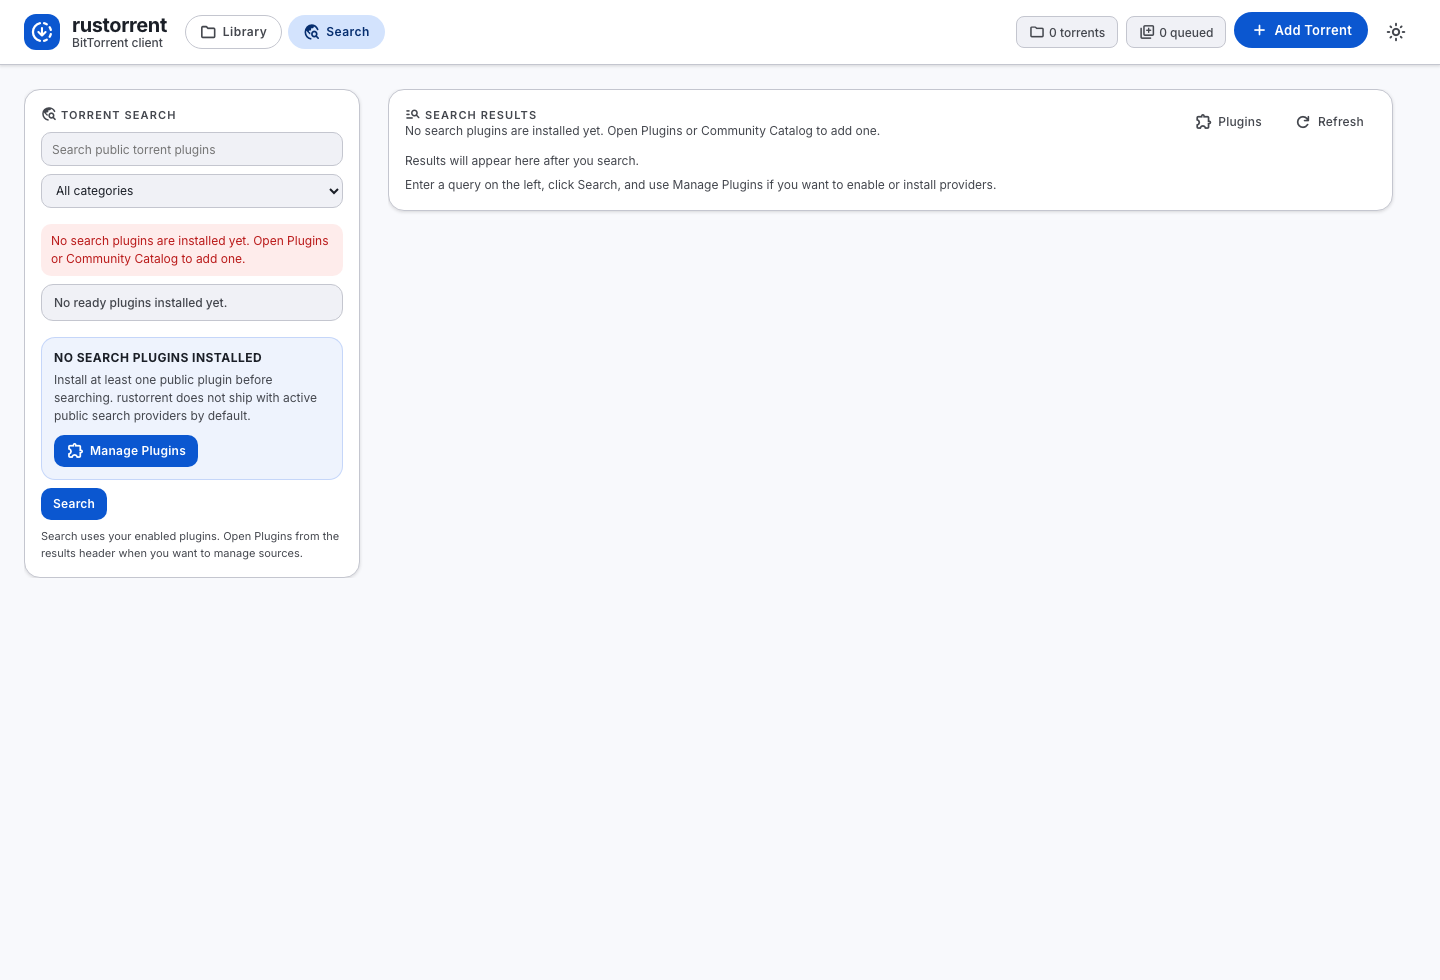
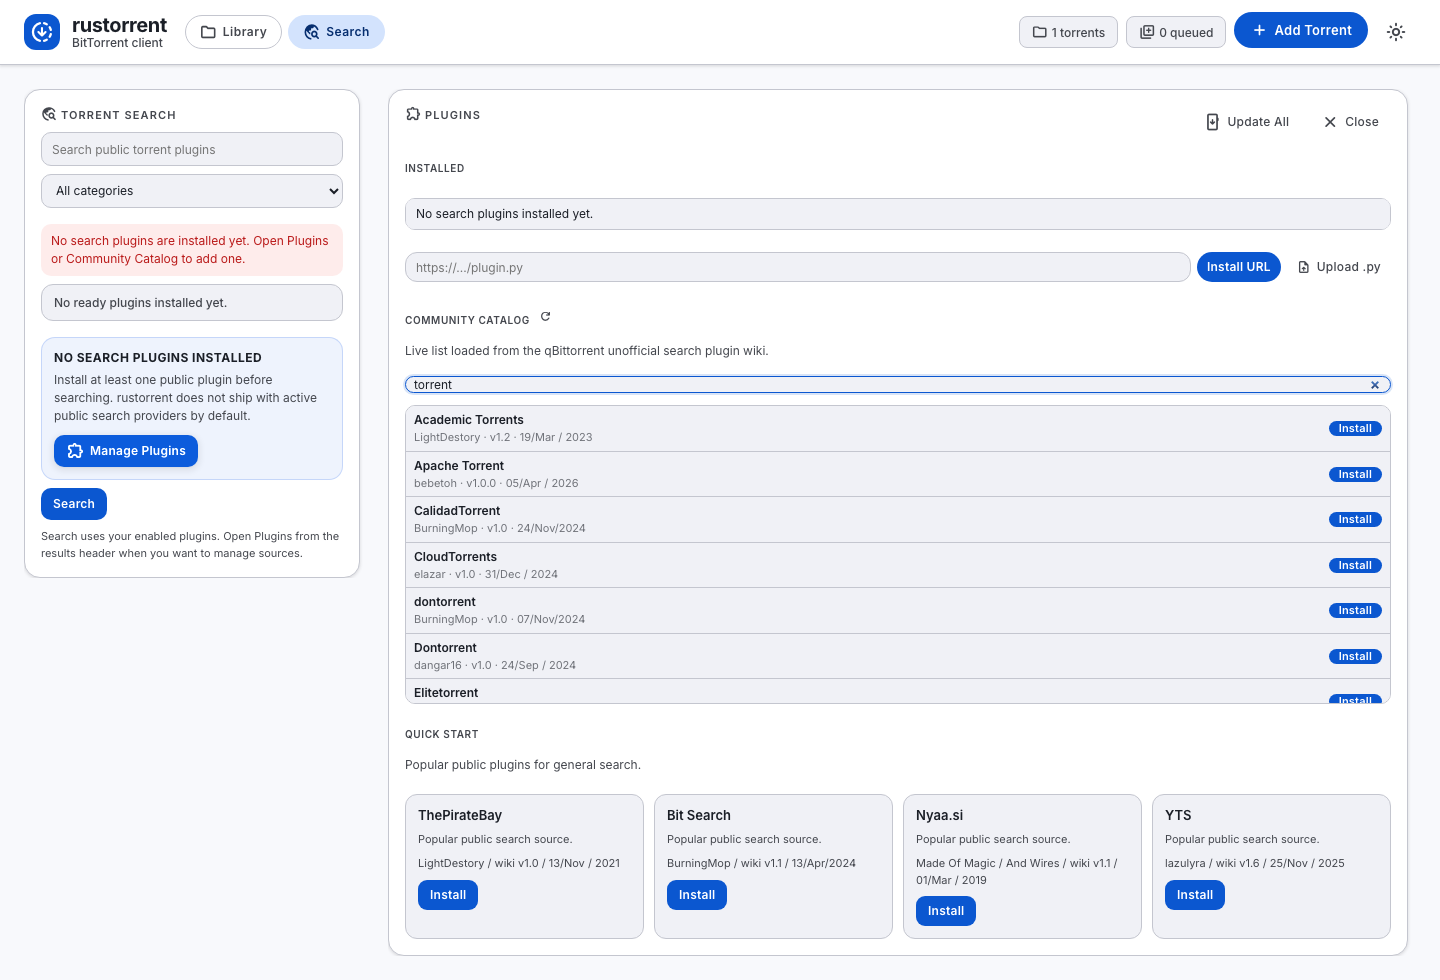
Refresh README screenshots with Ubuntu torrent

diff --git a/README.md b/README.md
@@ -10,9 +10,9 @@ Works on **macOS** and **Linux**. Windows support is partial (builds, but NAT-PM
 
 ![Rustorrent library overview](docs/screenshots/library-overview.png)
 
-### Built-in search workspace
+### Search plugin catalog
 
-![Rustorrent search workspace](docs/screenshots/search-workspace.png)
+![Rustorrent search plugin catalog](docs/screenshots/search-workspace.png)
 
 ## Features
 